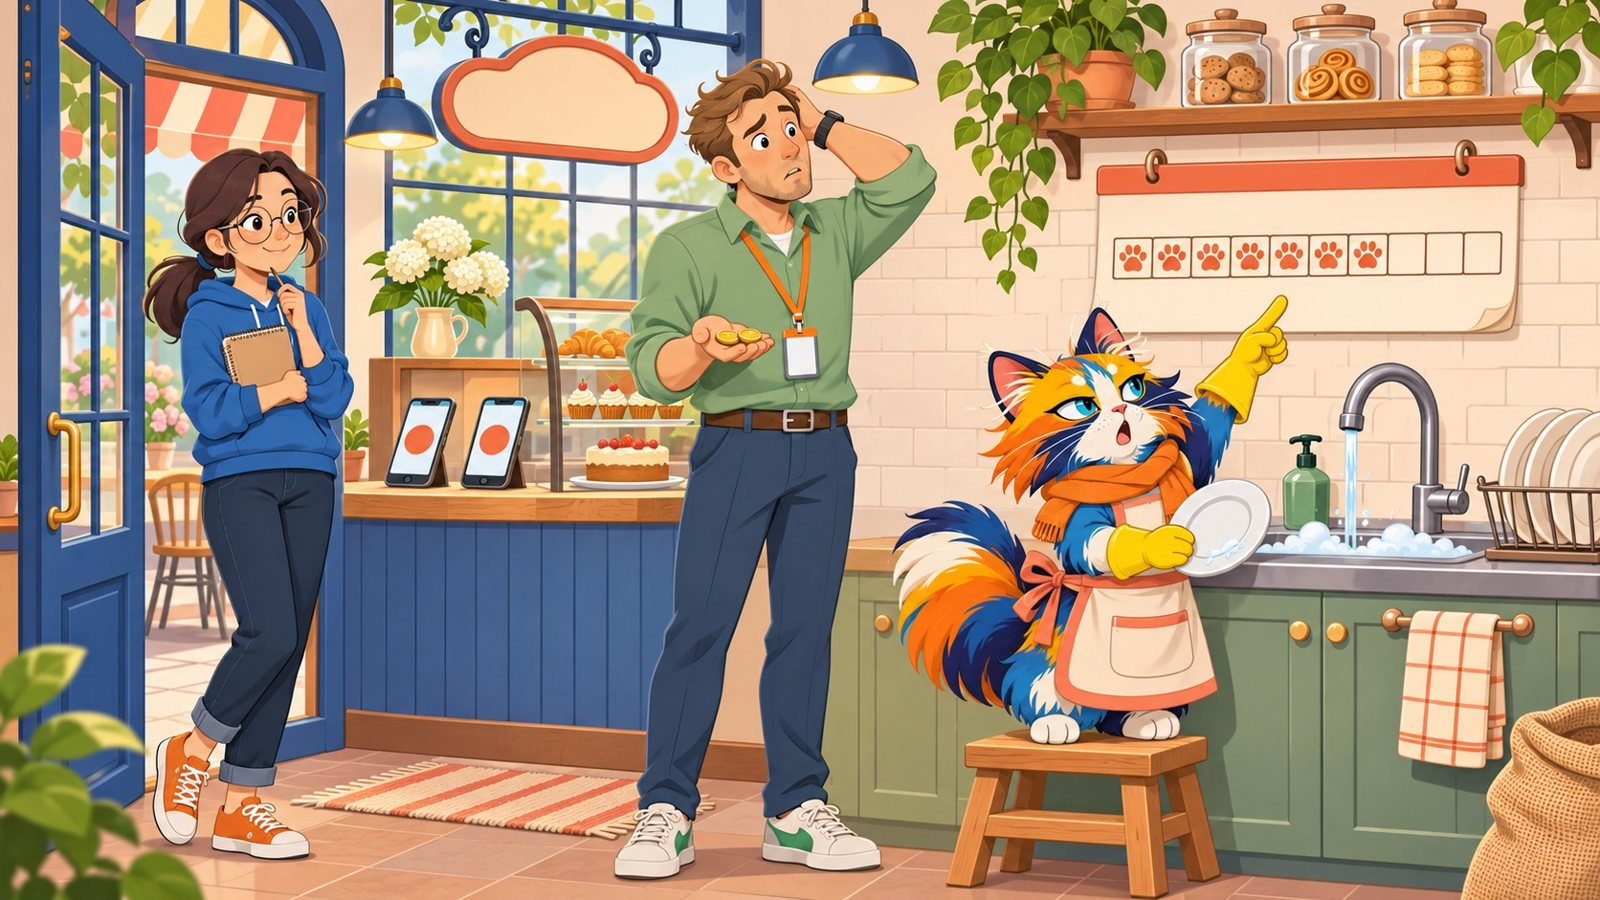
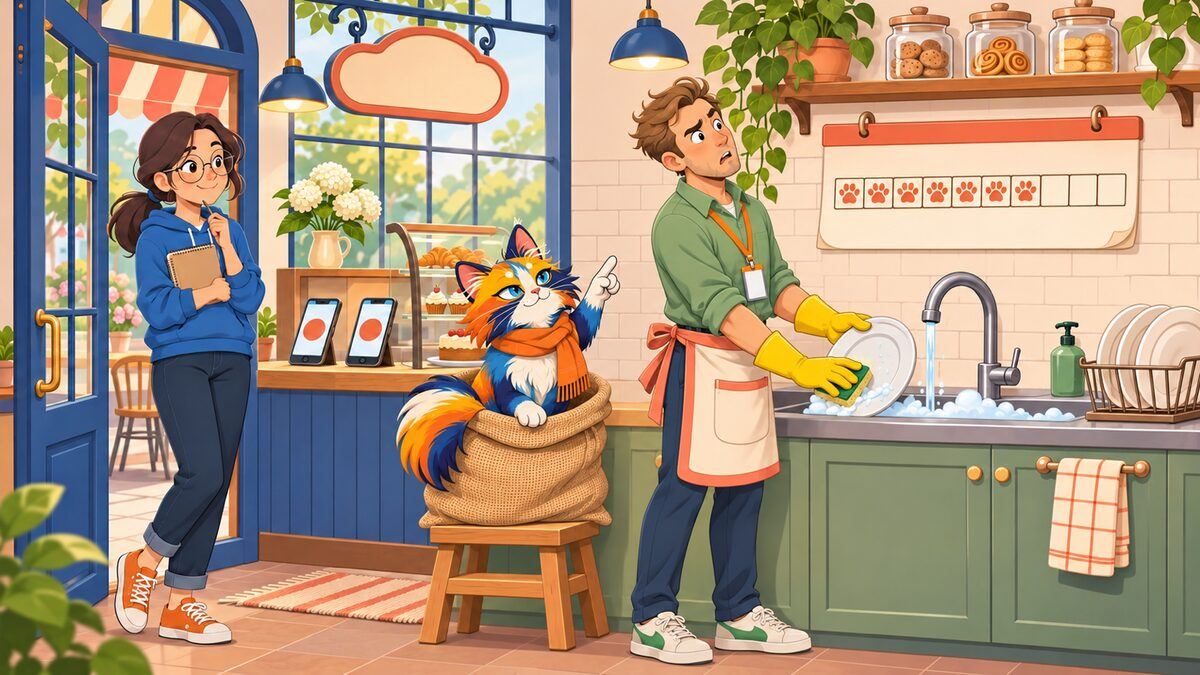
Trainer: section, mixed and mock images; VP1: new sink scene (Bob washes)
Claude-Session: https://claude.ai/code/session_016bVaCQyfwyCtB86fKvsZ4q

diff --git a/trainer/index.html b/trainer/index.html
@@ -54,40 +54,45 @@
   </section>
 
   <section class="tr-sec" aria-labelledby="sec-P">
-    
+    <img class="tr-sec-img" src="/trainer/img/trainer-probability.jpg" alt="" width="1200" height="800" loading="lazy">
     <h2 id="sec-P">Вероятность</h2>
     <p class="tr-meta">8 тем · 207 задач в банке</p>
     <ul class="tr-topics"><li><b>Комбинаторика и классическая вероятность</b><span>скоро · 45 задач</span></li><li class="on"><a href="/trainer/conditional/"><b>Условная вероятность и независимость</b><span>3 шабл. · готово</span></a></li><li class="on"><a href="/trainer/bayes/"><b>Формула Байеса</b><span>4 шабл. · готово</span></a></li><li><b>Матожидание и индикаторы</b><span>скоро · 32 задач</span></li><li><b>Ожидание до события</b><span>скоро · 21 задач</span></li><li><b>Симметрия</b><span>скоро · 6 задач</span></li><li><b>Рекурсия, цепи, блуждания</b><span>скоро · 12 задач</span></li><li><b>Биномиальное, Пуассон, геометрическая вероятность</b><span>скоро · 31 задач</span></li></ul>
   </section>
   <section class="tr-sec" aria-labelledby="sec-S">
-    
+    <img class="tr-sec-img" src="/trainer/img/trainer-statistics.jpg" alt="" width="1200" height="800" loading="lazy">
     <h2 id="sec-S">Статистика</h2>
     <p class="tr-meta">12 тем · 127 задач в банке</p>
     <ul class="tr-topics"><li class="on"><a href="/trainer/normal/"><b>Нормальное распределение</b><span>2 шабл. · готово</span></a></li><li><b>Закон больших чисел и √n</b><span>скоро · 3 задач</span></li><li><b>Центральная предельная теорема</b><span>скоро · 5 задач</span></li><li class="on"><a href="/trainer/confidence-interval/"><b>Доверительный интервал</b><span>2 шабл. · готово</span></a></li><li class="on"><a href="/trainer/p-value/"><b>p-value и значимость</b><span>3 шабл. · готово</span></a></li><li class="on"><a href="/trainer/sample-size/"><b>Мощность и размер выборки</b><span>3 шабл. · готово</span></a></li><li><b>Критерии: z, t, Манн–Уитни, хи-квадрат</b><span>скоро · 18 задач</span></li><li><b>Хвосты, медиана, выбросы</b><span>скоро · 20 задач</span></li><li class="on"><a href="/trainer/multiple-testing/"><b>Множественные проверки</b><span>1 шабл. · готово</span></a></li><li><b>Регрессия к среднему</b><span>скоро · 3 задач</span></li><li><b>Оценивание: ОМП, «танки», численность</b><span>скоро · 12 задач</span></li><li><b>Корреляция и зависимость</b><span>скоро · 3 задач</span></li></ul>
   </section>
   <section class="tr-sec" aria-labelledby="sec-A">
-    
+    <img class="tr-sec-img" src="/trainer/img/trainer-ab.jpg" alt="" width="1200" height="800" loading="lazy">
     <h2 id="sec-A">A/B-тесты</h2>
     <p class="tr-meta">6 тем · 40 задач в банке</p>
     <ul class="tr-topics"><li class="on"><a href="/trainer/ab-design/"><b>Дизайн теста: сплит, A/A, SRM</b><span>2 шабл. · готово</span></a></li><li><b>Метрики: дерево, ratio, бакеты</b><span>скоро · 20 задач</span></li><li class="on"><a href="/trainer/peeking/"><b>Подглядывание</b><span>1 шабл. · готово</span></a></li><li><b>Сетевой эффект и интерференция</b><span>скоро · 5 задач</span></li><li><b>Новизна, долгий эффект, окна метрик</b><span>скоро · 3 задач</span></li><li><b>Разбавление и триггерный анализ</b><span>скоро · 2 задач</span></li></ul>
   </section>
   <section class="tr-sec" aria-labelledby="sec-C">
-    
+    <img class="tr-sec-img" src="/trainer/img/trainer-causal.jpg" alt="" width="1200" height="800" loading="lazy">
     <h2 id="sec-C">Причинность и ловушки данных</h2>
     <p class="tr-meta">3 темы · 22 задач в банке</p>
     <ul class="tr-topics"><li class="on"><a href="/trainer/simpson/"><b>Парадокс Симпсона</b><span>1 шабл. · готово</span></a></li><li class="on"><a href="/trainer/selection/"><b>Отбор: выживший, инспекция, Берксон</b><span>2 шабл. · готово</span></a></li><li><b>Конфаундеры и квази-эксперименты</b><span>скоро · 6 задач</span></li></ul>
   </section>
   <section class="tr-sec" aria-labelledby="sec-K">
-    
+    <img class="tr-sec-img" src="/trainer/img/trainer-cases.jpg" alt="" width="1200" height="800" loading="lazy">
     <h2 id="sec-K">Продуктовые кейсы</h2>
     <p class="tr-meta">3 темы · 25 задач в банке</p>
     <ul class="tr-topics"><li><b>От гипотезы до решения в деньгах</b><span>скоро · 11 задач</span></li><li><b>Метрика упала или выросла — найди причину</b><span>скоро · 8 задач</span></li><li><b>Экономика промо и привлечения</b><span>скоро · 6 задач</span></li></ul>
   </section>
   <section class="tr-sec" aria-labelledby="sec-L">
-    
+    <img class="tr-sec-img" src="/trainer/img/trainer-logic.jpg" alt="" width="1200" height="800" loading="lazy">
     <h2 id="sec-L">Логика и оценки Ферми</h2>
     <p class="tr-meta">2 темы · 33 задач в банке</p>
     <ul class="tr-topics"><li><b>Логические задачи</b><span>скоро · 32 задач</span></li><li><b>Оценки Ферми</b><span>скоро · 1 задач</span></li></ul>
+  </section>
+  <section class="tr-sec" aria-labelledby="sec-mock">
+    <img class="tr-sec-img" src="/trainer/img/trainer-mock.jpg" alt="" width="1200" height="800" loading="lazy">
+    <h2 id="sec-mock">Пробное собеседование</h2>
+    <p class="tr-meta">Скоро · 45 минут, задачи из разных разделов, разбор в конце</p>
   </section>
 </main>
 <script src="/trainer/trainer.js?v=202611252" defer></script>

diff --git a/probability/01-outcomes.html b/probability/01-outcomes.html
@@ -498,7 +498,7 @@ _check()
     <dt>Вероятность, P(A)</dt><dd>доля опытов, где случилось A, на длинной серии; probability</dd>
     <dt>Равновероятные исходы</dt><dd>исходы с одинаковыми шансами; equally likely outcomes</dd>
   </dl>
-  <figure class="art"><img loading="lazy" src="img/vp01-02-next.jpg" alt="Котейка у раковины моет тарелку, рядом листок с семью отметками из десяти" onerror="this.parentNode.classList.add('missing')"><figcaption class="ph">Здесь будет иллюстрация: Боб мыл посуду 7 вечеров из 10 и возмущён</figcaption></figure>
+  <figure class="art"><img loading="lazy" src="img/vp01-02-next.jpg?v=2" alt="Котейка у раковины моет тарелку, рядом листок с семью отметками из десяти" onerror="this.parentNode.classList.add('missing')"><figcaption class="ph">Здесь будет иллюстрация: Боб мыл посуду 7 вечеров из 10 и возмущён</figcaption></figure>
   <a class="next-step" href="02-frequency.html"><b>Дальше: 2. Вероятность как частота</b>За первые десять вечеров Боб мыл посуду семь раз. Правило всё‑таки нечестное — или десять вечеров просто мало?</a>
 </section>
 

diff --git a/tools/build-trainer.js b/tools/build-trainer.js
@@ -143,6 +143,7 @@ ${tpls}
   <p class="eyebrow"><a href="/trainer/">Тренажёр собеседований</a></p>
   <h1>Смешанная тренировка</h1>
   <p class="t-def">На собеседовании тему не называют. Здесь задачи идут вперемешку из всех готовых тем — сначала узнай шаблон, потом считай.</p>
+  ${img('trainer-mixed') ? `<img class="tr-sec-img" src="${img('trainer-mixed')}" alt="" width="1200" height="800">` : ''}
   <div class="tr-mixbox" aria-live="polite">
     <p class="tr-kind"><span data-mix-n></span><span class="tr-dom" data-mix-dom></span></p>
     <p class="tr-q" data-mix-q></p>
@@ -201,6 +202,11 @@ ${tpls}
     <p class="tr-meta">Готово ${nReady} тем из ${MAP.length}. Остальные появятся до конца декабря.</p>
   </section>
 ${sec}
+  <section class="tr-sec" aria-labelledby="sec-mock">
+    ${img('trainer-mock') ? `<img class="tr-sec-img" src="${img('trainer-mock')}" alt="" width="1200" height="800" loading="lazy">` : ''}
+    <h2 id="sec-mock">Пробное собеседование</h2>
+    <p class="tr-meta">Скоро · 45 минут, задачи из разных разделов, разбор в конце</p>
+  </section>
 </main>` + foot();
   write('trainer/index.html', index);
   return {topics: nReady, tasks: mix.length};

diff --git a/trainer/mix/index.html b/trainer/mix/index.html
@@ -38,6 +38,7 @@
   <p class="eyebrow"><a href="/trainer/">Тренажёр собеседований</a></p>
   <h1>Смешанная тренировка</h1>
   <p class="t-def">На собеседовании тему не называют. Здесь задачи идут вперемешку из всех готовых тем — сначала узнай шаблон, потом считай.</p>
+  <img class="tr-sec-img" src="/trainer/img/trainer-mixed.jpg" alt="" width="1200" height="800">
   <div class="tr-mixbox" aria-live="polite">
     <p class="tr-kind"><span data-mix-n></span><span class="tr-dom" data-mix-dom></span></p>
     <p class="tr-q" data-mix-q></p>
